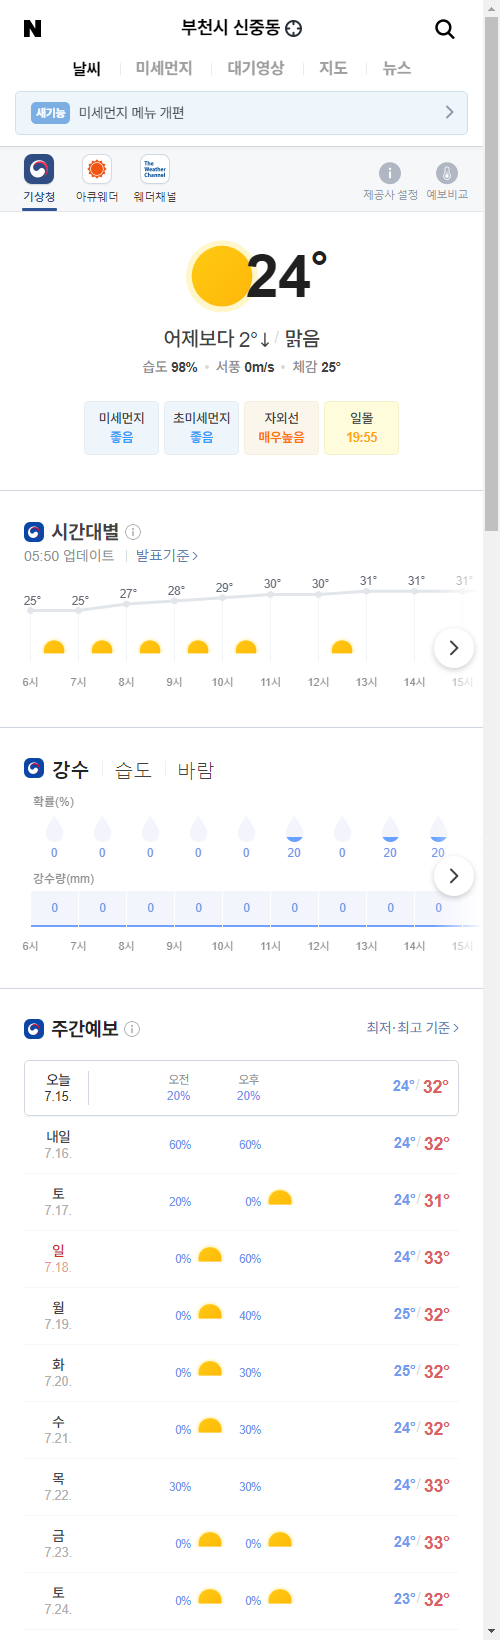
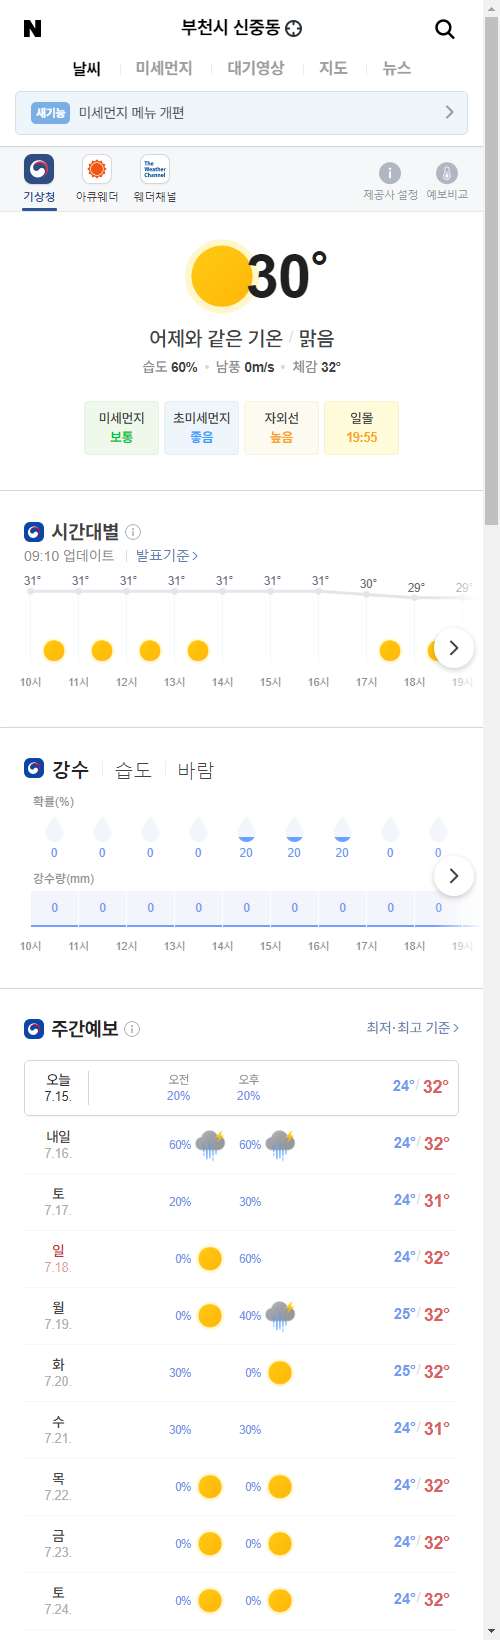
update result

diff --git a/README.md b/README.md
@@ -1,5 +1,5 @@
-##  2021-07-15 05:54:33   목요일 
-##### 날씨   -   어제보다 2° 낮아요맑음  
+##  2021-07-15 09:18:10   목요일 
+##### 날씨   -   어제와 같은 기온맑음  
 <center><img src="../img/naver_weather_week.png"></center>
 ----
 ----
@@ -23,34 +23,34 @@
 ##### 시장
 <table border="1" bordercolor="blue" align = "center" >
 <tr align = "right" > <td>Item</td><td>Price</td><td>Diff</td><td>Rate</td><td>Buy</td><td>Sell</td><td>...</td>  </tr>
-<tr align = "right" > <td>USD</td><td>1,150.0</td><td>4.5</td><td><font size="3" color="red">0.39%</font></td><td><font size="3" color="black">1,110</font></td><td><font size="3" color="black">0</font></td><td>0</td>  </tr>
-<tr align = "right" > <td>WTI</td><td>75.25</td><td>1.15</td><td><font size="3" color="red">1.55%</font></td><td><font size="3" color="black">29.0</font></td><td><font size="3" color="black">0</font></td><td>0</td>  </tr>
-<tr align = "right" > <td>GOLD</td><td>1,809.0</td><td>3.9</td><td><font size="3" color="red">0.21%</font></td><td><font size="3" color="black">0</font></td><td><font size="3" color="black">0</font></td><td>0</td>  </tr>
+<tr align = "right" > <td>USD</td><td>1,145.0</td><td>-4.3</td><td><font size="3" color="blue">-0.37%</font></td><td><font size="3" color="black">1,110</font></td><td><font size="3" color="black">0</font></td><td>0</td>  </tr>
+<tr align = "right" > <td>WTI</td><td>73.13</td><td>-2.12</td><td><font size="3" color="blue">-2.81%</font></td><td><font size="3" color="black">29.0</font></td><td><font size="3" color="black">0</font></td><td>0</td>  </tr>
+<tr align = "right" > <td>GOLD</td><td>1,824.0</td><td>14.9</td><td><font size="3" color="red">0.82%</font></td><td><font size="3" color="black">0</font></td><td><font size="3" color="black">0</font></td><td>0</td>  </tr>
 </table>
 ----
 ##### 주가
 <table border="1" bordercolor="blue" align = "center" >
 <tr align = "right" > <td>Item</td><td>Price</td><td>Diff</td><td>Rate</td><td>Purchased</td><td>Sell</td><td>Buy</td>  </tr>
-<tr align = "right" > <td>한국 전력</td><td>24,750</td><td>-50</td><td><font size="3" color="blue">-0.2%</font></td><td>25,720</td><td><font size="3" color="black">27,700</font></td><td><font size="3" color="black">20,700</font></td>  </tr>
-<tr align = "right" > <td>삼성엔지니어.</td><td>23,050</td><td>500</td><td><font size="3" color="red">2.22%</font></td><td>18,935</td><td><font size="3" color="black">20,000</font></td><td><font size="3" color="black">8,000</font></td>  </tr>
-<tr align = "right" > <td>CJ CGV</td><td>29,400</td><td>-450</td><td><font size="3" color="blue">-1.51%</font></td><td>34,895</td><td><font size="3" color="black">36,000</font></td><td><font size="3" color="black">0</font></td>  </tr>
-<tr align = "right" > <td>아모레퍼시픽</td><td>241,000</td><td>-2,000</td><td><font size="3" color="blue">-0.82%</font></td><td>235,350</td><td><font size="3" color="black">240,000</font></td><td><font size="3" color="black">130,000</font></td>  </tr>
-<tr align = "right" > <td>한화</td><td>30,400</td><td>-450</td><td><font size="3" color="blue">-1.46%</font></td><td>25,550</td><td><font size="3" color="black">26,250</font></td><td><font size="3" color="black">26,250</font></td>  </tr>
-<tr align = "right" > <td>NAVER</td><td>444,000</td><td>3,000</td><td><font size="3" color="red">0.68%</font></td><td>147,200</td><td><font size="3" color="black">386,000</font></td><td><font size="3" color="black">286,000</font></td>  </tr>
-<tr align = "right" > <td>LG 화학우</td><td>384,500</td><td>2,000</td><td><font size="3" color="red">0.52%</font></td><td>202,490</td><td><font size="3" color="black">384,000</font></td><td><font size="3" color="black">384,000</font></td>  </tr>
-<tr align = "right" > <td>스튜디오드래.</td><td>95,700</td><td>1,100</td><td><font size="3" color="red">1.16%</font></td><td>81,243</td><td><font size="3" color="black">85,200</font></td><td><font size="3" color="black">85,200</font></td>  </tr>
-<tr align = "right" > <td>QV미국IT</td><td>31,450</td><td>40</td><td><font size="3" color="red">0.13%</font></td><td>0</td><td><font size="3" color="black">30,000</font></td><td><font size="3" color="black">20,000</font></td>  </tr>
-<tr align = "right" > <td>삼성 전자우</td><td>72,800</td><td>300</td><td><font size="3" color="red">0.41%</font></td><td>48,250</td><td><font size="3" color="black">56,000</font></td><td><font size="3" color="black">45,000</font></td>  </tr>
-<tr align = "right" > <td>LS</td><td>71,600</td><td>900</td><td><font size="3" color="red">1.27%</font></td><td>71,900</td><td><font size="3" color="black">82,000</font></td><td><font size="3" color="black">60,000</font></td>  </tr>
-<tr align = "right" > <td>한화에어로스.</td><td>50,400</td><td>-1,100</td><td><font size="3" color="blue">-2.14%</font></td><td>25,700</td><td><font size="3" color="black">30,000</font></td><td><font size="3" color="black">24,000</font></td>  </tr>
-<tr align = "right" > <td>카카오</td><td>162,000</td><td>1,000</td><td><font size="3" color="red">0.62%</font></td><td>405,500</td><td><font size="3" color="black">440,000</font></td><td><font size="3" color="orangered">400,000</font></td>  </tr>
-<tr align = "right" > <td>호텔 신라</td><td>93,600</td><td>-1,700</td><td><font size="3" color="blue">-1.78%</font></td><td>72,800</td><td><font size="3" color="black">100,000</font></td><td><font size="3" color="black">70,000</font></td>  </tr>
-<tr align = "right" > <td>S-Oil</td><td>102,000</td><td>-1,500</td><td><font size="3" color="blue">-1.45%</font></td><td>62,842</td><td><font size="3" color="black">100,000</font></td><td><font size="3" color="black">50,000</font></td>  </tr>
-<tr align = "right" > <td>LG전자</td><td>161,000</td><td>-2,500</td><td><font size="3" color="blue">-1.53%</font></td><td>82,022</td><td><font size="3" color="black">100,000</font></td><td><font size="3" color="black">60,000</font></td>  </tr>
-<tr align = "right" > <td>KT&G</td><td>82,900</td><td>-900</td><td><font size="3" color="blue">-1.07%</font></td><td>80,400</td><td><font size="3" color="black">100,000</font></td><td><font size="3" color="black">70,000</font></td>  </tr>
-<tr align = "right" > <td>지역난방공사</td><td>42,350</td><td>50</td><td><font size="3" color="red">0.12%</font></td><td>43,590</td><td><font size="3" color="black">60,000</font></td><td><font size="3" color="black">30,000</font></td>  </tr>
-<tr align = "right" > <td>KOEDX은행</td><td>7,295</td><td>-115</td><td><font size="3" color="blue">-1.55%</font></td><td>5,178</td><td><font size="3" color="black">6,225</font></td><td><font size="3" color="black">6,225</font></td>  </tr>
-<tr align = "right" > <td>글로벌럭셔리</td><td>18,265</td><td>-30</td><td><font size="3" color="blue">-0.16%</font></td><td>15,260</td><td><font size="3" color="black">20,000</font></td><td><font size="3" color="black">10,000</font></td>  </tr>
-<tr align = "right" > <td>한국금융지주</td><td>103,500</td><td>2,000</td><td><font size="3" color="red">1.97%</font></td><td>0</td><td><font size="3" color="black">82,000</font></td><td><font size="3" color="black">60,000</font></td>  </tr>
+<tr align = "right" > <td>한국 전력</td><td>24,850</td><td>100</td><td><font size="3" color="red">0.4%</font></td><td>25,720</td><td><font size="3" color="black">27,700</font></td><td><font size="3" color="black">20,700</font></td>  </tr>
+<tr align = "right" > <td>삼성엔지니어.</td><td>22,850</td><td>-200</td><td><font size="3" color="blue">-0.87%</font></td><td>18,935</td><td><font size="3" color="black">20,000</font></td><td><font size="3" color="black">8,000</font></td>  </tr>
+<tr align = "right" > <td>CJ CGV</td><td>29,550</td><td>150</td><td><font size="3" color="red">0.51%</font></td><td>34,895</td><td><font size="3" color="black">36,000</font></td><td><font size="3" color="black">0</font></td>  </tr>
+<tr align = "right" > <td>아모레퍼시픽</td><td>241,500</td><td>500</td><td><font size="3" color="red">0.21%</font></td><td>235,350</td><td><font size="3" color="black">240,000</font></td><td><font size="3" color="black">130,000</font></td>  </tr>
+<tr align = "right" > <td>한화</td><td>30,600</td><td>200</td><td><font size="3" color="red">0.66%</font></td><td>25,550</td><td><font size="3" color="black">26,250</font></td><td><font size="3" color="black">26,250</font></td>  </tr>
+<tr align = "right" > <td>NAVER</td><td>442,500</td><td>-1,500</td><td><font size="3" color="blue">-0.34%</font></td><td>147,200</td><td><font size="3" color="black">386,000</font></td><td><font size="3" color="black">286,000</font></td>  </tr>
+<tr align = "right" > <td>LG 화학우</td><td>382,500</td><td>-2,000</td><td><font size="3" color="blue">-0.52%</font></td><td>202,490</td><td><font size="3" color="black">384,000</font></td><td><font size="3" color="orangered">384,000</font></td>  </tr>
+<tr align = "right" > <td>스튜디오드래.</td><td>95,000</td><td>-700</td><td><font size="3" color="blue">-0.73%</font></td><td>81,243</td><td><font size="3" color="black">85,200</font></td><td><font size="3" color="black">85,200</font></td>  </tr>
+<tr align = "right" > <td>QV미국IT</td><td>31,665</td><td>215</td><td><font size="3" color="red">0.68%</font></td><td>0</td><td><font size="3" color="black">30,000</font></td><td><font size="3" color="black">20,000</font></td>  </tr>
+<tr align = "right" > <td>삼성 전자우</td><td>72,700</td><td>-100</td><td><font size="3" color="blue">-0.14%</font></td><td>48,250</td><td><font size="3" color="black">56,000</font></td><td><font size="3" color="black">45,000</font></td>  </tr>
+<tr align = "right" > <td>LS</td><td>72,100</td><td>500</td><td><font size="3" color="red">0.7%</font></td><td>71,900</td><td><font size="3" color="black">82,000</font></td><td><font size="3" color="black">60,000</font></td>  </tr>
+<tr align = "right" > <td>한화에어로스.</td><td>51,200</td><td>800</td><td><font size="3" color="red">1.59%</font></td><td>25,700</td><td><font size="3" color="black">30,000</font></td><td><font size="3" color="black">24,000</font></td>  </tr>
+<tr align = "right" > <td>카카오</td><td>159,000</td><td>-3,000</td><td><font size="3" color="blue">-1.85%</font></td><td>405,500</td><td><font size="3" color="black">440,000</font></td><td><font size="3" color="orangered">400,000</font></td>  </tr>
+<tr align = "right" > <td>호텔 신라</td><td>94,100</td><td>500</td><td><font size="3" color="red">0.53%</font></td><td>72,800</td><td><font size="3" color="black">100,000</font></td><td><font size="3" color="black">70,000</font></td>  </tr>
+<tr align = "right" > <td>S-Oil</td><td>101,500</td><td>-500</td><td><font size="3" color="blue">-0.49%</font></td><td>62,842</td><td><font size="3" color="black">100,000</font></td><td><font size="3" color="black">50,000</font></td>  </tr>
+<tr align = "right" > <td>LG전자</td><td>160,000</td><td>-1,000</td><td><font size="3" color="blue">-0.62%</font></td><td>82,022</td><td><font size="3" color="black">100,000</font></td><td><font size="3" color="black">60,000</font></td>  </tr>
+<tr align = "right" > <td>KT&G</td><td>83,000</td><td>100</td><td><font size="3" color="red">0.12%</font></td><td>80,400</td><td><font size="3" color="black">100,000</font></td><td><font size="3" color="black">70,000</font></td>  </tr>
+<tr align = "right" > <td>지역난방공사</td><td>42,300</td><td>-50</td><td><font size="3" color="blue">-0.12%</font></td><td>43,590</td><td><font size="3" color="black">60,000</font></td><td><font size="3" color="black">30,000</font></td>  </tr>
+<tr align = "right" > <td>KOEDX은행</td><td>7,320</td><td>25</td><td><font size="3" color="red">0.34%</font></td><td>5,178</td><td><font size="3" color="black">6,225</font></td><td><font size="3" color="black">6,225</font></td>  </tr>
+<tr align = "right" > <td>글로벌럭셔리</td><td>18,220</td><td>-45</td><td><font size="3" color="blue">-0.25%</font></td><td>15,260</td><td><font size="3" color="black">20,000</font></td><td><font size="3" color="black">10,000</font></td>  </tr>
+<tr align = "right" > <td>한국금융지주</td><td>103,000</td><td>-500</td><td><font size="3" color="blue">-0.48%</font></td><td>0</td><td><font size="3" color="black">82,000</font></td><td><font size="3" color="black">60,000</font></td>  </tr>
 </table>
 ----
